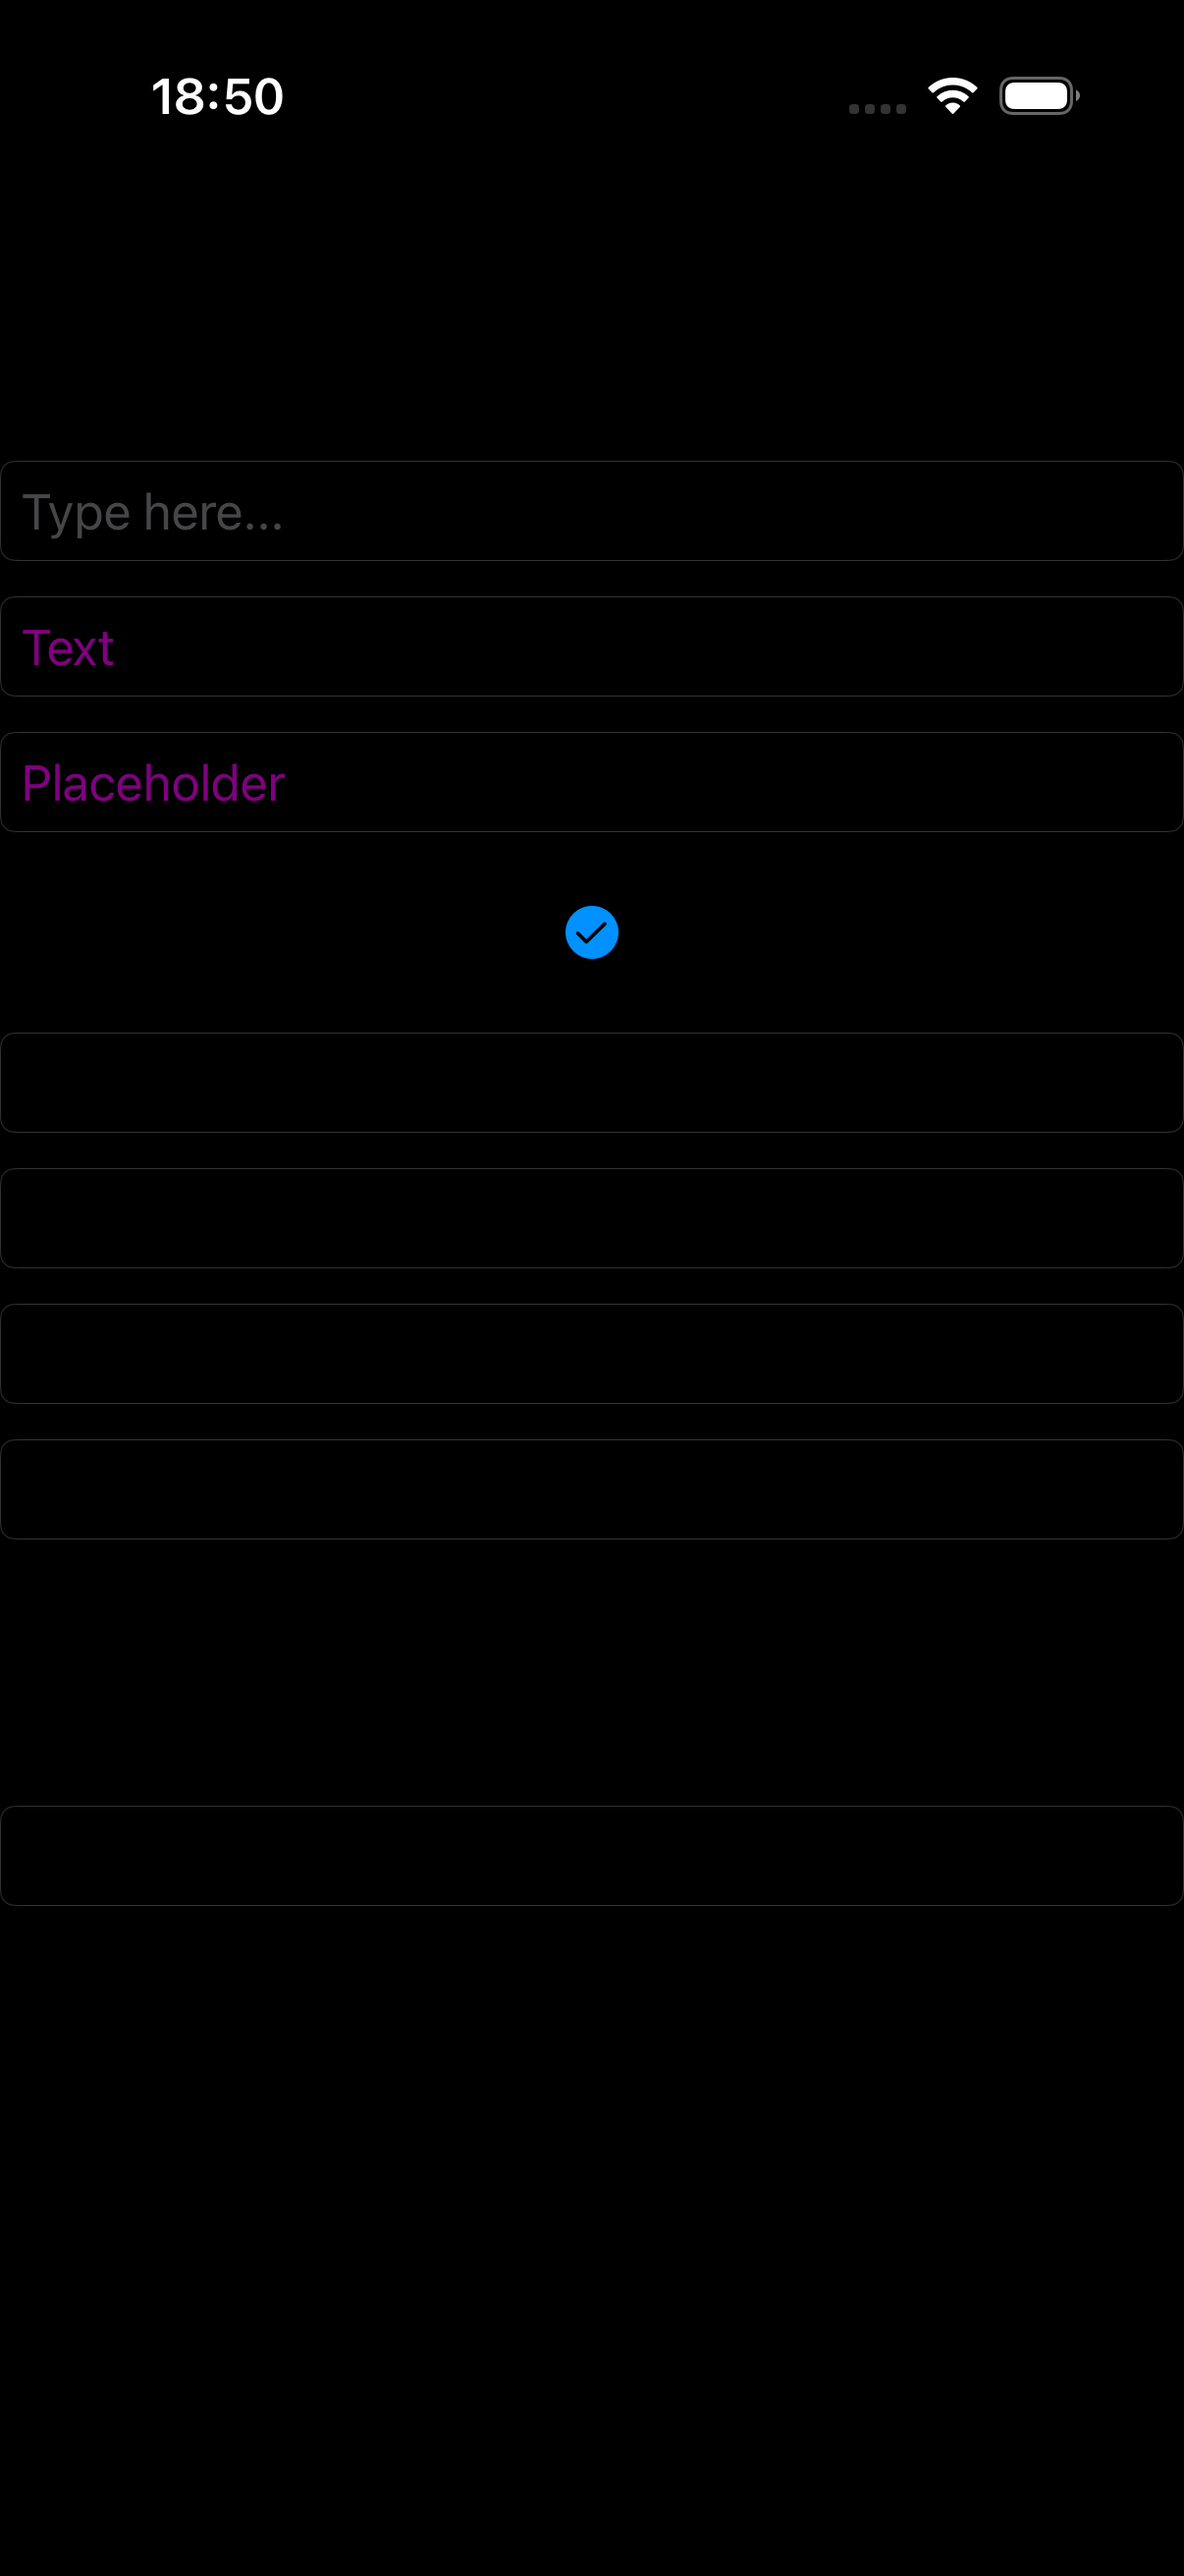
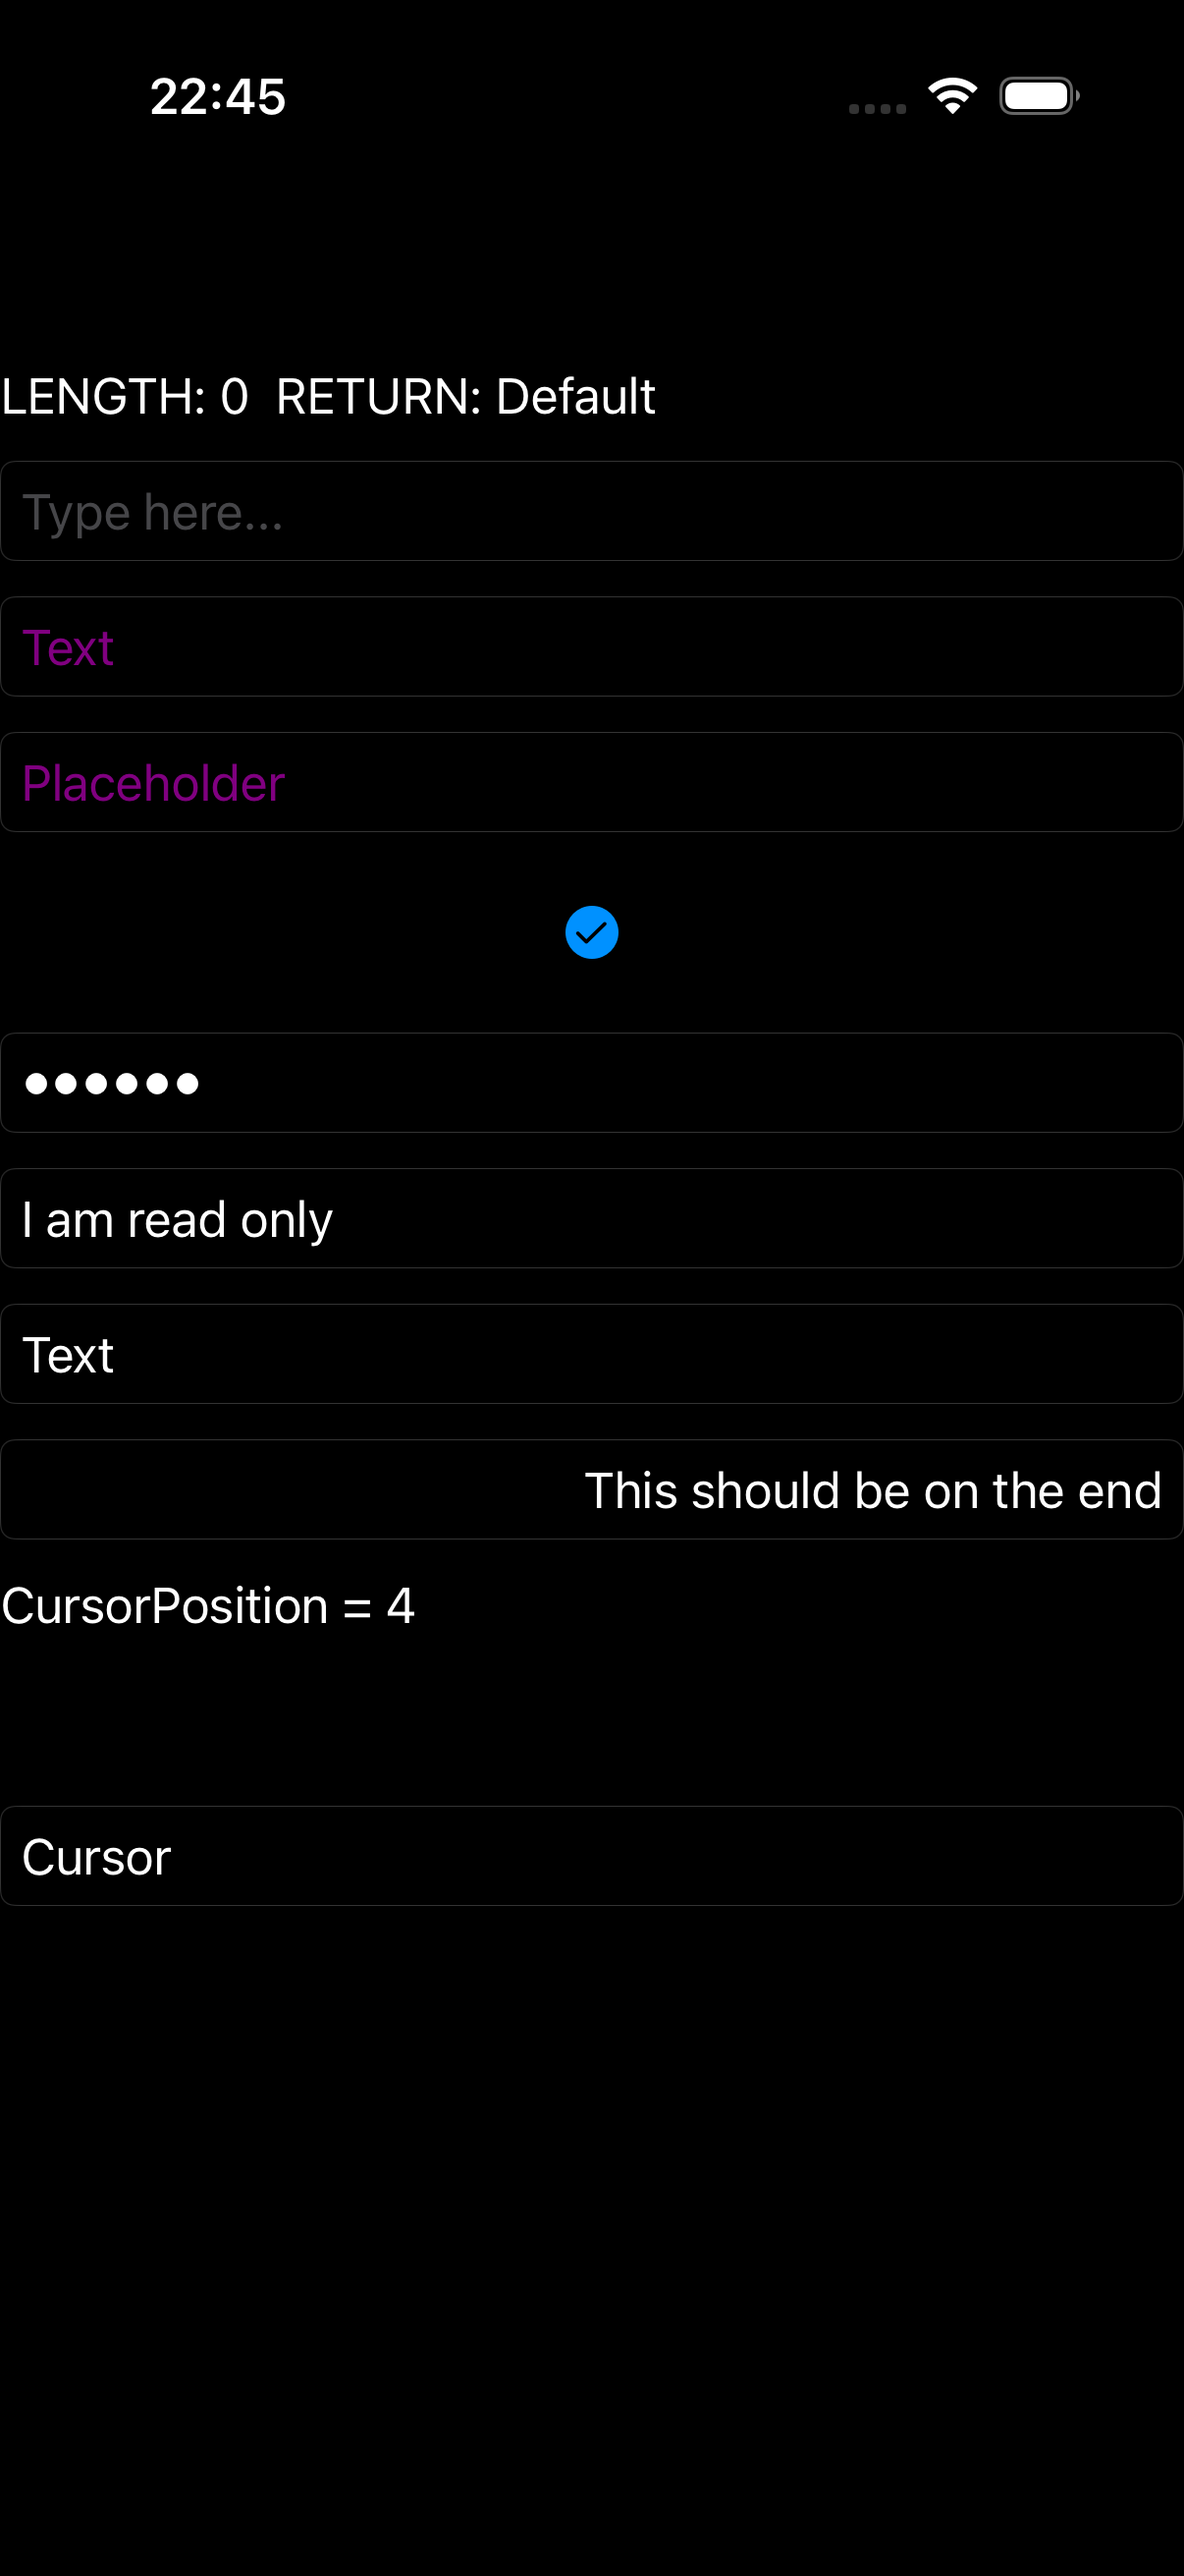
fix(ios,parity): Entry uses dynamic system label color when text unset (dark visibility)
example 3/172 (entry): same dark-text root cause as label — the iOS entry forced an opaque color for unset
TextColor, invisible (black-on-black) in dark. Now unset -> UIColor.labelColor (adapts light/dark); explicit
colors win. entry dark: black -> white text matching C#; pending -> minor (residual: minor field spacing/
border vs C#). Cascades to every Entry. tidy 0.

diff --git a/port/cpp/src/platform/ios/entry_handler.mm b/port/cpp/src/platform/ios/entry_handler.mm
@@ -635,10 +635,14 @@ namespace maui::core
         auto* platform = handler.typed_platform_view();
         if (platform != nullptr)
         {
-            // TextFieldExtensions.UpdateTextColor's non-null branch; the TextColor == null fallback to
-            // the theme label color has no analog (non-nullable color value type, the same collapse as
-            // the AppKit twin). UpdateClearButtonColor (private clearButton KVC tint) is not ported.
-            as_field(platform->native).textColor = to_ui_color(view.text_color());
+            // TextFieldExtensions.UpdateTextColor. Non-null sets the explicit color; the TextColor == null
+            // default falls back to the dynamic system label color (UIColor.labelColor) which adapts to
+            // light/dark — the port treats the default-constructed (unset) color as that null, so unstyled
+            // entry text is visible in both appearances (was black-on-black in dark).
+            // (UpdateClearButtonColor — private clearButton KVC tint — is not ported.)
+            const maui::graphics::color text_color = view.text_color();
+            as_field(platform->native).textColor =
+                text_color != maui::graphics::color{} ? to_ui_color(text_color) : UIColor.labelColor;
         }
     }
 

diff --git a/port/cpp/docs/comparison/README.md b/port/cpp/docs/comparison/README.md
@@ -2,7 +2,7 @@
 
 Theme-matched iOS comparison: each page rendered by **real .NET MAUI** vs the **C++ port**, on the same iPhone 17 simulator, compared **light-vs-light** and **dark-vs-dark**. Both stacks render native-default controls + the system font (the C# app's `dotnet new maui` default `Styles.xaml` + OpenSans are stripped; appearance forced via `MAUI_THEME` / `MAUI_APPEARANCE`). Goal: pixel-perfect parity, fixed example-by-example.
 
-**Progress: 0 / 172 🟢 matched** · 2 🟡 minor · 58 🔴 diff · 112 ⬜ pending
+**Progress: 0 / 172 🟢 matched** · 3 🟡 minor · 58 🔴 diff · 111 ⬜ pending
 
 Status legend: 🟢 pixel-match (both themes) · 🟡 minor diff · 🔴 notable diff to fix · ⬜ not yet reviewed. Per-theme verdicts in `parity_status.json`.
 
@@ -14,7 +14,7 @@ Rows are in **fix order** (top → bottom): foundational single controls first (
 | --: | --- | :---: | --- | --- | --- | --- |
 | 1 | Label | 🟡<br>L:minor<br>D:minor | ![](csharp_ios_light/label.png) | ![](cpp_ios_light/label.png) | ![](csharp_ios_dark/label.png) | ![](cpp_ios_dark/label.png) |
 | 2 | Button | 🟡<br>L:minor<br>D:minor | ![](csharp_ios_light/button.png) | ![](cpp_ios_light/button.png) | ![](csharp_ios_dark/button.png) | ![](cpp_ios_dark/button.png) |
-| 3 | Entry | ⬜<br>L:pending<br>D:pending | ![](csharp_ios_light/entry.png) | ![](cpp_ios_light/entry.png) | ![](csharp_ios_dark/entry.png) | ![](cpp_ios_dark/entry.png) |
+| 3 | Entry | 🟡<br>L:minor<br>D:minor | ![](csharp_ios_light/entry.png) | ![](cpp_ios_light/entry.png) | ![](csharp_ios_dark/entry.png) | ![](cpp_ios_dark/entry.png) |
 | 4 | Editor | 🔴<br>L:minor<br>D:diff | ![](csharp_ios_light/editor.png) | ![](cpp_ios_light/editor.png) | ![](csharp_ios_dark/editor.png) | ![](cpp_ios_dark/editor.png) |
 | 5 | Search Bar | ⬜<br>L:pending<br>D:pending | ![](csharp_ios_light/search_bar.png) | ![](cpp_ios_light/search_bar.png) | ![](csharp_ios_dark/search_bar.png) | ![](cpp_ios_dark/search_bar.png) |
 | 6 | Picker | ⬜<br>L:pending<br>D:pending | ![](csharp_ios_light/picker.png) | ![](cpp_ios_light/picker.png) | ![](csharp_ios_dark/picker.png) | ![](cpp_ios_dark/picker.png) |
